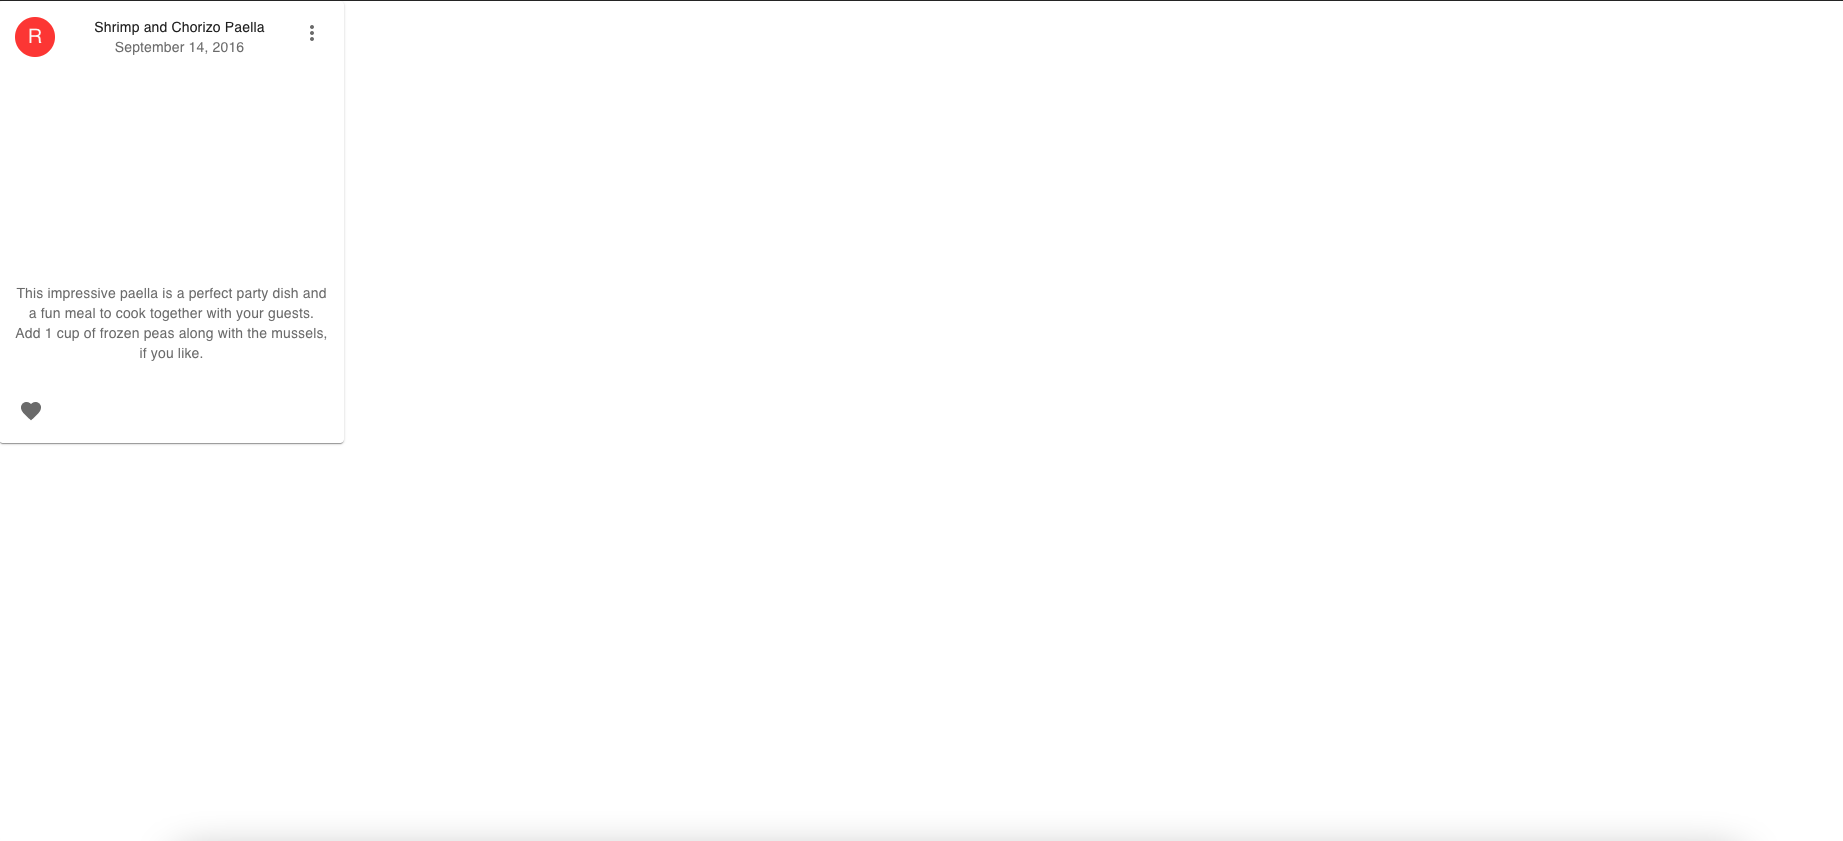
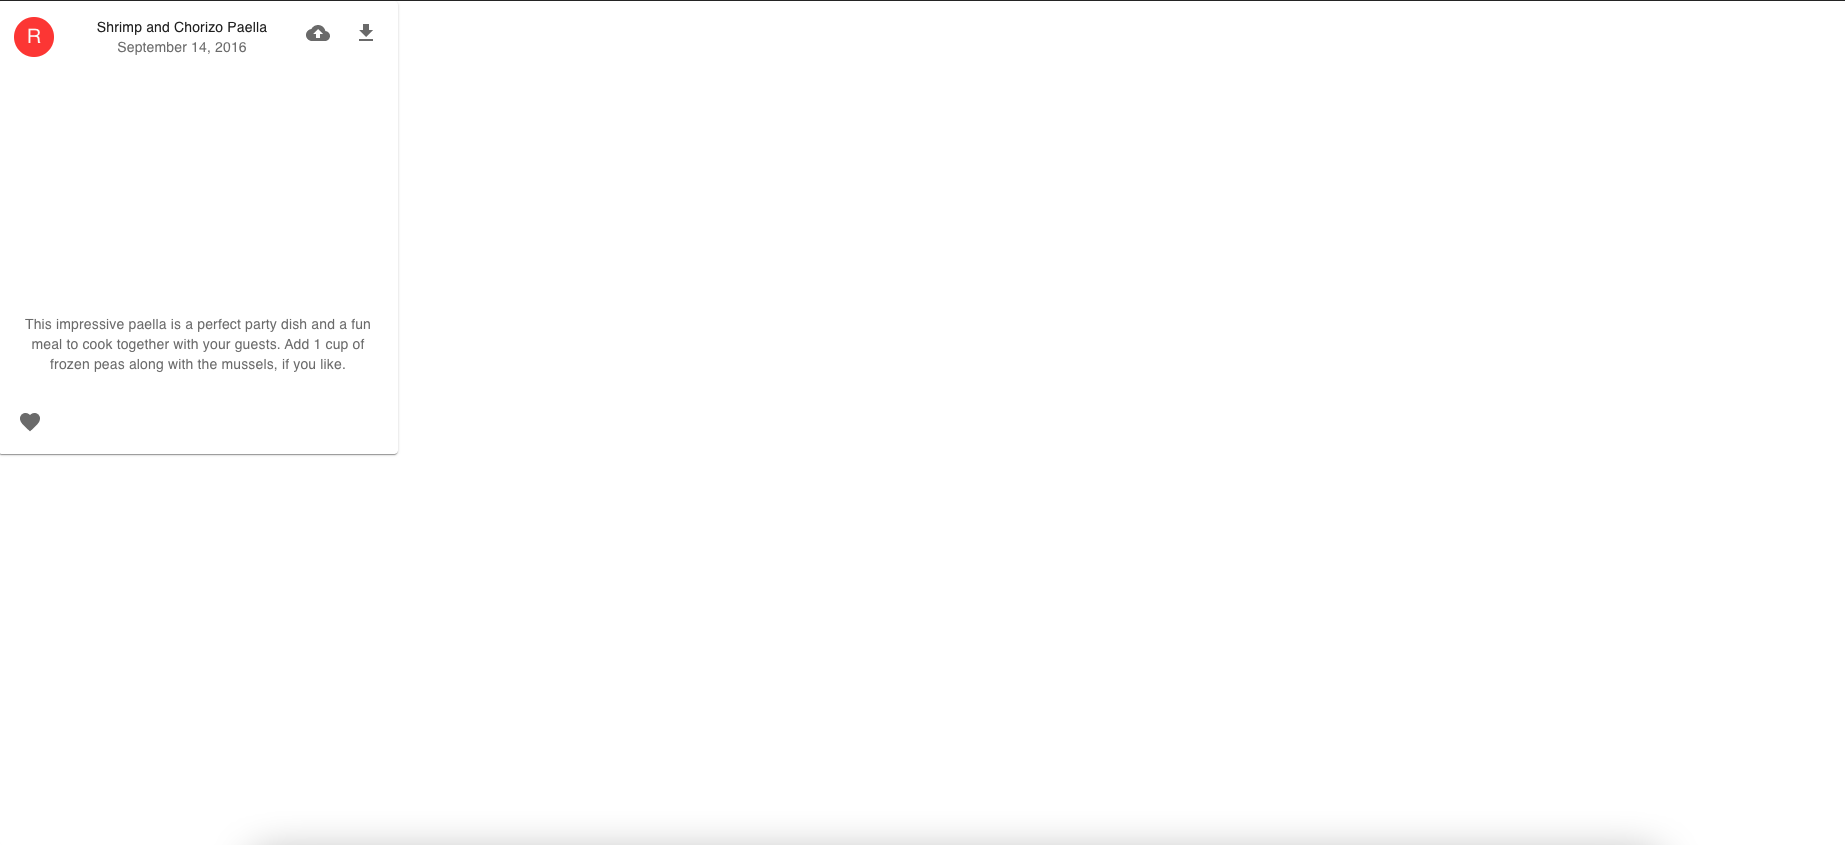
Update instructions

diff --git a/src/Card/Card.tsx b/src/Card/Card.tsx
@@ -10,12 +10,13 @@ import IconButton from '@material-ui/core/IconButton';
 import Typography from '@material-ui/core/Typography';
 import {red} from '@material-ui/core/colors';
 import FavoriteIcon from '@material-ui/icons/Favorite';
-import MoreVertIcon from '@material-ui/icons/MoreVert';
+import {CloudUpload, GetApp} from "@material-ui/icons";
+import Tooltip from "@material-ui/core/Tooltip";
 
 const useStyles = makeStyles((theme: Theme) =>
     createStyles({
         root: {
-            maxWidth: 345,
+            maxWidth: 400,
         },
         media: {
             height: 0,
@@ -49,9 +50,18 @@ export const RecipeReviewCard = () => {
                     </Avatar>
                 }
                 action={
-                    <IconButton aria-label="settings">
-                        <MoreVertIcon />
-                    </IconButton>
+                    <React.Fragment>
+                        <IconButton>
+                            <Tooltip title={"Upload image"}>
+                                <CloudUpload/>
+                            </Tooltip>
+                        </IconButton>
+                        <IconButton>
+                            <Tooltip title={"Download content"}>
+                                <GetApp/>
+                            </Tooltip>
+                        </IconButton>
+                    </React.Fragment>
                 }
                 title="Shrimp and Chorizo Paella"
                 subheader="September 14, 2016"
@@ -68,9 +78,12 @@ export const RecipeReviewCard = () => {
                 </Typography>
             </CardContent>
             <CardActions disableSpacing>
+            <Tooltip title={"Like"}>
                 <IconButton aria-label="add to favorites">
                     <FavoriteIcon />
                 </IconButton>
+            </Tooltip>
+
             </CardActions>
         </Card>
     );

diff --git a/README.md b/README.md
@@ -2,7 +2,7 @@
 ## Task: Make an interactive recipe card
 
 
-In this homework, you will build on MUI’s demo of a recipe card available in their documentation: 
+In this project, you will build on MUI’s demo of a recipe card available in their documentation: 
 https://material-ui.com/components/cards/#complex-interaction
 
 
@@ -10,19 +10,24 @@ Once this project is cloned, dependencies are installed (`yarn install`), and th
 ![Alt text](public/preview.png?raw=true "Title")
 
 
-This simple card lacks functionality. The objective of this homework is to make the card more interactive. 
+This simple card lacks functionality. In this work, we will make the "Upload image," "Download content," and "Like" button functional. 
 
 What you should do:
-- Change the menu button (the three vertical dots next to the title) to correspond to an edit icon. 
-- When clicking on the newly added edit icon button, the user should be provided with the following options:
-    - An “Upload image” option to upload a new image from the user’s desktop. The new image will replace the current image. Note that currently no image is displayed.
-    - An “Edit content” option which allows the user to change the title of the card and the descriptive text of the recipe card. The date shown under the title should be changed to correspond to today’s date. 
-    - A “Export recipe” option which, when clicked, downloads a .json file on the user's local machine. The json file should contain the following data: (1) the title of the card, (2) the date, (3) the image data URI, (4) and the descriptive content.  
-- Hovering on the "Like" button should make the icon temporarily red instead of gray.
-- A count should be kept on how many times the "Like" button has been clicked. The count should be displayed near to the heart icon.
-- The card should be centered on the screen horizontally. Vertical padding may be added. 
+- Fix the "Upload image" button. When clicked, the user should be able to upload an image from their local machine. 
+The uploaded image will replace the current image shown in the Recipe card. Note that on first load, no image is displayed.
+**Furthermore, the date displayed in the card header must update to today's date when a new image is uploaded**.
+- Fix the "Download content" button. When clicked, a .json file should be downloaded on the user's machine which contains 
+the following data: (1) the title of the recipe, (2) the date shown on the card and (3) the descriptive content of the recipe.
+- Fix the "Like" button:
+     - Hovering on the "Like" button should make the icon temporarily red instead of gray.
+     - A count should be kept on how many times the "Like" button has been clicked. 
+     The current count should be displayed near to the heart icon as a badge.
+- Finally, make sure that the recipe card is centered in the screen as opposed to being in the upper left corner.
 
 
+Please write your solution in Typescript.
+
+This exercise should take approximately 60 minutes to complete. 
 
 # Getting Started with Create React App
 
@@ -43,3 +48,4 @@ Open [http://localhost:3000](http://localhost:3000) to view it in the browser.
 The page will reload if you make edits.\
 You will also see any lint errors in the console.
 
+# ciminilab-swe-SOLUTION
